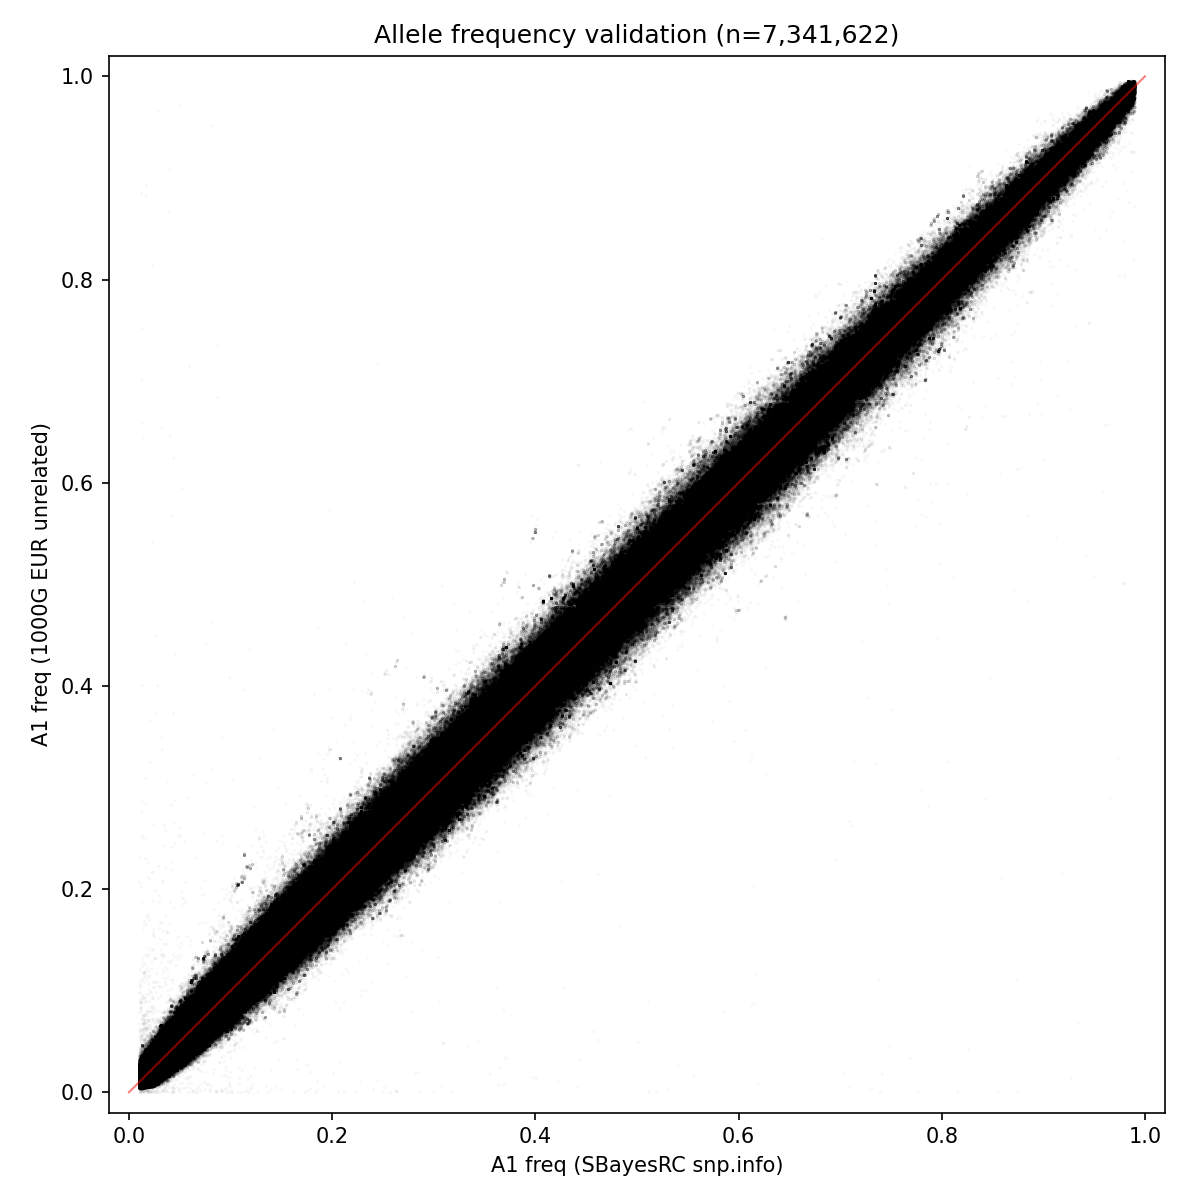
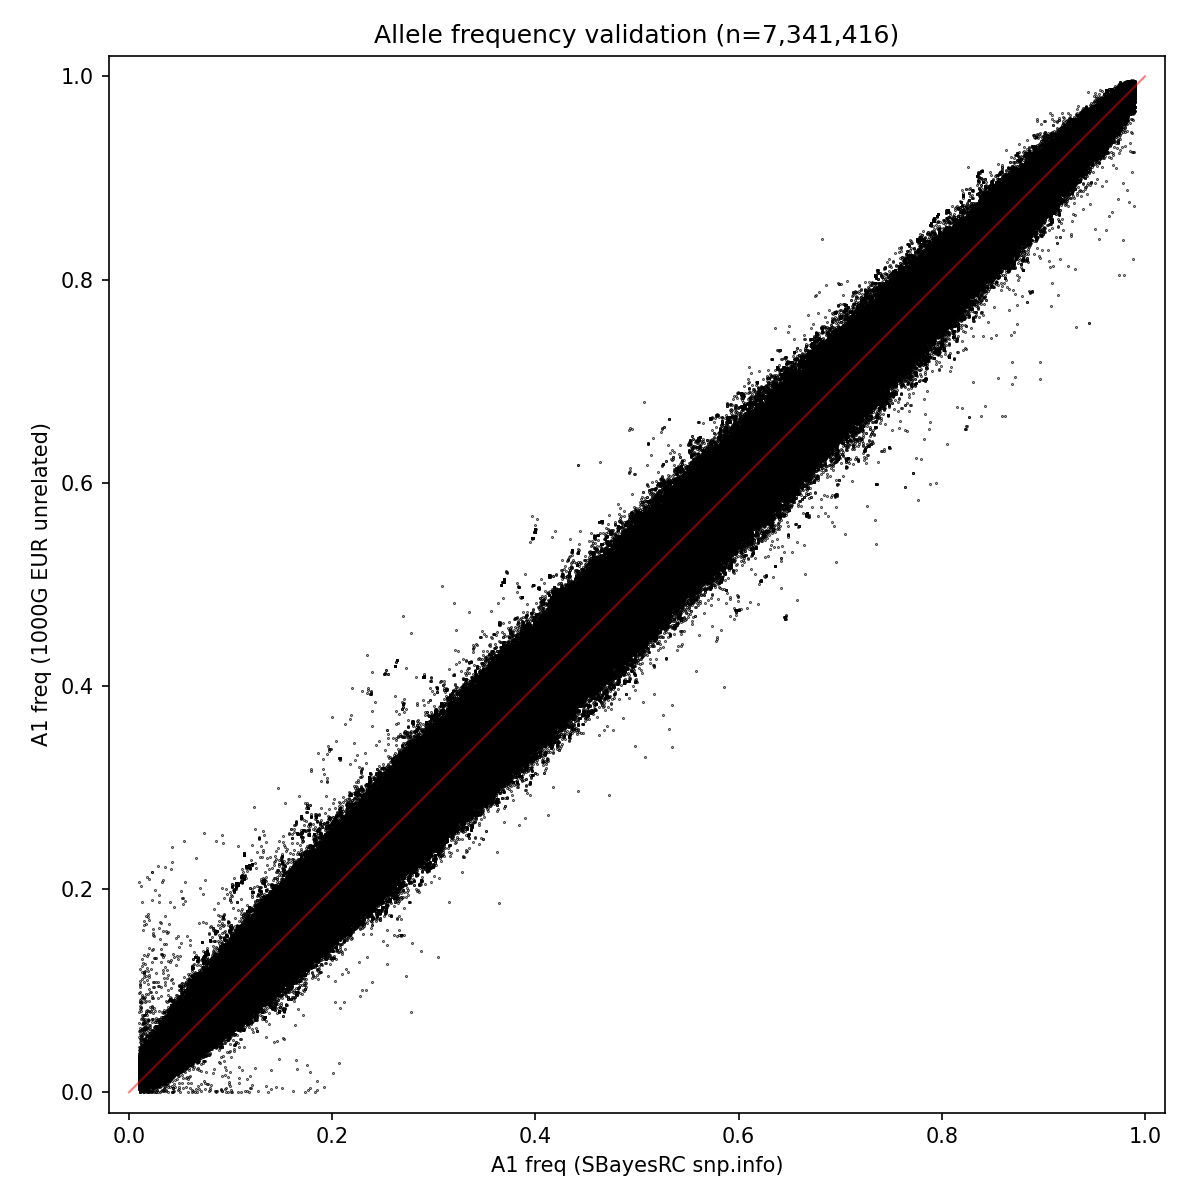
Add 1000G frequency QC filter, Bland-Altman plot, and README rewrite
- Exclude SNPs with |A1Freq - a1_freq_kg| > 0.2 (206 SNPs, status: kg_freq_diff)
- Final output: 7,354,747 SNPs (down from 7,354,953)
- Add Bland-Altman plot (kg_validation/bland_altman.png)
- Scatter plot: alpha=1, black dots, only freq-filter-passing SNPs
- README: explain GWAS motivation, why dbSNP confirmation matters,
  why 1000G for frequency check, strand flip count in final output

Changed region(s): [[0.0925, 0.0617, 0.9558, 0.925], [0.7092, 0.0, 0.74, 0.0308]]

diff --git a/liftover.py b/liftover.py
@@ -15,6 +15,7 @@ Inclusion criteria -- every SNP in sbayesrc_hg38.csv must satisfy ALL of:
   3. The dbSNP reference allele must match the hg38 FASTA reference base
   4. At least one allele (A1/A2, accounting for strand) must match the FASTA ref
   5. The other (non-ref) allele must appear in dbSNP's alt allele(s) for that rsID
+  6. If matched in 1000G EUR, |A1Freq - a1_freq_kg| must be <= 0.2
 
 Usage:
     bash main.sh
@@ -542,36 +543,35 @@ def step_kg_validation(df):
 
     print(f"  Allele-frequency assigned:    {in_kg.sum():>10,}")
 
-    # Flag large frequency differences (|A1Freq - a1_freq_kg| > 0.2)
+    # Exclude SNPs with |A1Freq - a1_freq_kg| > 0.2
     has_freq = df["a1_freq_kg"].notna()
     freq_diff = (df.loc[has_freq, "A1Freq"] - df.loc[has_freq, "a1_freq_kg"]).abs()
     large_diff = freq_diff > 0.2
     n_large = large_diff.sum()
-    print(f"  |freq diff| > 0.2:            {n_large:>10,}")
-
     if n_large > 0:
         bad_idx = freq_diff.index[large_diff]
-        print(f"\n  rsIDs with |A1Freq - a1_freq_kg| > 0.2:")
-        for _, r in df.loc[bad_idx, ["ID", "chrom", "pos_hg38", "A1Freq", "a1_freq_kg"]].head(50).iterrows():
-            print(f"    {r.ID}  chr{r.chrom}:{int(r.pos_hg38)}  "
+        df.loc[bad_idx, "status"] = "kg_freq_diff"
+        df.loc[bad_idx, "pos_hg38"] = -1
+    print(f"  |freq diff| > 0.2 (excluded): {n_large:>10,}")
+    print(f"  Passed freq filter:           {(has_freq.sum() - n_large):>10,}")
+
+    if n_large > 0:
+        print(f"\n  Sample excluded rsIDs (first 20):")
+        for _, r in df.loc[bad_idx, ["ID", "chrom", "A1Freq", "a1_freq_kg"]].head(20).iterrows():
+            print(f"    {r.ID}  chr{r.chrom}  "
                   f"A1Freq={r.A1Freq:.4f}  kg={r.a1_freq_kg:.4f}  "
                   f"diff={abs(r.A1Freq - r.a1_freq_kg):.4f}")
-        if n_large > 50:
-            print(f"    ... and {n_large - 50} more")
 
-    # Not-in-1000G list (log first 20)
-    if not_in_kg.any():
-        print(f"\n  Sample rsIDs not matched in 1000G (first 20):")
-        for _, r in df.loc[not_in_kg, ["ID", "chrom", "pos_hg38"]].head(20).iterrows():
-            print(f"    {r.ID}  chr{r.chrom}:{int(r.pos_hg38)}")
-
-    # Scatter plot (only SNPs with a valid a1_freq_kg; unmatched SNPs
-    # are excluded entirely, not plotted at frequency 0)
+    # Plots: only SNPs that passed the freq filter
+    passed_kg = has_freq & df["status"].isin(["confirmed", "rescue"])
     kg_dir = os.path.join(ROOT, "kg_validation")
     os.makedirs(kg_dir, exist_ok=True)
-    plot_path = os.path.join(kg_dir, "allele_freq_validation.png")
-    _make_freq_plot(df.loc[has_freq], plot_path)
-    print(f"\n  Scatter plot: kg_validation/{os.path.basename(plot_path)}")
+    scatter_path = os.path.join(kg_dir, "allele_freq_validation.png")
+    ba_path = os.path.join(kg_dir, "bland_altman.png")
+    _make_freq_plot(df.loc[passed_kg], scatter_path)
+    _make_bland_altman(df.loc[passed_kg], ba_path)
+    print(f"\n  Scatter plot:     kg_validation/allele_freq_validation.png")
+    print(f"  Bland-Altman plot: kg_validation/bland_altman.png")
 
     df.drop(columns=["_snp_alt", "kg_af"], inplace=True)
     return df
@@ -586,7 +586,7 @@ def _make_freq_plot(df, path):
     y = df["a1_freq_kg"].values
 
     fig, ax = plt.subplots(figsize=(8, 8))
-    ax.scatter(x, y, s=0.1, alpha=0.05, color="black", rasterized=True)
+    ax.scatter(x, y, s=0.1, alpha=1, color="black", rasterized=True)
     ax.plot([0, 1], [0, 1], "r-", linewidth=1, alpha=0.5)
     ax.set_xlabel("A1 freq (SBayesRC snp.info)")
     ax.set_ylabel("A1 freq (1000G EUR unrelated)")
@@ -596,6 +596,37 @@ def _make_freq_plot(df, path):
     ax.set_xticks([0, 0.2, 0.4, 0.6, 0.8, 1.0])
     ax.set_yticks([0, 0.2, 0.4, 0.6, 0.8, 1.0])
     ax.set_aspect("equal")
+    fig.tight_layout()
+    fig.savefig(path, dpi=150)
+    plt.close(fig)
+
+
+def _make_bland_altman(df, path):
+    import matplotlib
+    matplotlib.use("Agg")
+    import matplotlib.pyplot as plt
+    import numpy as np
+
+    x = df["A1Freq"].values
+    y = df["a1_freq_kg"].values
+    mean = (x + y) / 2
+    diff = x - y
+
+    md = np.mean(diff)
+    sd = np.std(diff)
+
+    fig, ax = plt.subplots(figsize=(10, 6))
+    ax.scatter(mean, diff, s=0.1, alpha=1, color="black", rasterized=True)
+    ax.axhline(md, color="blue", linewidth=1, label=f"Mean diff: {md:.4f}")
+    ax.axhline(md + 1.96 * sd, color="red", linewidth=1, linestyle="--",
+               label=f"+1.96 SD: {md + 1.96 * sd:.4f}")
+    ax.axhline(md - 1.96 * sd, color="red", linewidth=1, linestyle="--",
+               label=f"-1.96 SD: {md - 1.96 * sd:.4f}")
+    ax.set_xlabel("Mean A1 freq (snp.info, 1000G EUR)")
+    ax.set_ylabel("Difference (snp.info - 1000G EUR)")
+    ax.set_title(f"Bland-Altman: A1 freq agreement (n={len(df):,})")
+    ax.set_xlim(-0.02, 1.02)
+    ax.legend(loc="upper right")
     fig.tight_layout()
     fig.savefig(path, dpi=150)
     plt.close(fig)
@@ -670,6 +701,7 @@ def main():
     n_allele    = (df["status"] == "allele_mismatch").sum()
     n_alt       = (df["status"] == "alt_mismatch").sum()
     n_dup       = (df["status"] == "duplicate_pos").sum()
+    n_kg_freq   = (df["status"] == "kg_freq_diff").sum()
 
     print(f"\n{'=' * 60}")
     print(f"FINAL SUMMARY: {n_total:,} SNPs")
@@ -678,7 +710,7 @@ def main():
     print(f"    confirmed (liftOver + dbSNP agree):  {n_confirmed:>10,}")
     print(f"    rescue    (dbSNP only):              {n_rescue:>10,}")
     print(f"    TOTAL INCLUDED:                      {n_confirmed + n_rescue:>10,}")
-    n_excluded = n_conflict + n_no_dbsnp + n_unmapped + n_fasta + n_allele + n_alt + n_dup
+    n_excluded = n_conflict + n_no_dbsnp + n_unmapped + n_fasta + n_allele + n_alt + n_dup + n_kg_freq
     print(f"\n  Excluded:")
     print(f"    conflict  (liftOver != dbSNP):       {n_conflict:>10,}")
     print(f"    no_dbsnp  (rsID not in dbSNP):       {n_no_dbsnp:>10,}")
@@ -687,6 +719,7 @@ def main():
     print(f"    allele_mismatch (no allele = ref):   {n_allele:>10,}")
     print(f"    alt_mismatch (alt not in dbSNP):     {n_alt:>10,}")
     print(f"    duplicate_pos (same chrom+pos):      {n_dup:>10,}")
+    print(f"    kg_freq_diff  (|freq diff| > 0.2):   {n_kg_freq:>10,}")
     print(f"    TOTAL EXCLUDED:                      {n_excluded:>10,}")
     print(f"{'=' * 60}", flush=True)
 

diff --git a/README.md b/README.md
@@ -30,19 +30,37 @@ The ~8 GB of downloaded reference files are cached in `tools/` and reused on sub
 
 ## Why This Exists
 
+SBayesRC's `snp.info` file uses hg19 coordinates. To run GWAS with SBayesRC SNPs in hg38 genotype datasets, we need to lift them to hg38. Getting this wrong is silent and dangerous: if a SNP is mapped to the wrong hg38 position, downstream analyses will join it to the wrong variant in the genotype data, producing incorrect effect estimates with no error message.
+
+For every SNP in the final output, we need to be confident that:
+
+- **The rsID genuinely maps to that hg38 chrom + position.** We confirm this by requiring the rsID to exist in dbSNP (the canonical registry of known human variants on GRCh38). If an rsID isn't in dbSNP's current GRCh38 release, the variant may not exist on hg38, may have been merged or retired, or was never mapped to GRCh38 -- so we can't trust that it refers to a real variant at a real position.
+- **The position is correct.** We cross-validate UCSC liftOver's coordinate conversion against dbSNP's independently curated position. If they disagree, something is wrong (typically a segmental duplication region), and the SNP is discarded rather than guessing which source is right.
+- **The alleles are correct.** We verify the reference allele against the actual hg38 FASTA sequence, and check that the alternate allele is one that dbSNP recognises for that rsID. This catches cases where liftOver maps to a paralogous position that happens to share the same reference base but represents a different variant.
+- **The allele frequency is plausible.** We compare against 1000 Genomes EUR allele frequencies as a final sanity check. A large frequency discrepancy (>0.2) suggests a mapping or strand error. We use 1000 Genomes rather than dbSNP for this check because dbSNP's frequencies are aggregated across studies and populations; 1000G provides clean per-population frequencies from a well-defined reference panel, which is a better match for the European-ancestry frequencies in SBayesRC's snp.info.
+
+### The liftOver problem
+
 UCSC liftOver works well for the vast majority of SNPs, but it makes errors in **segmental duplication regions** (NBPF genes on chr1, HLA on chr6, etc.). In these regions, it can map a variant to a paralogous copy at the wrong genomic position. These errors are hard to catch: the allele may coincidentally match the reference at the wrong location, so a naive allele-vs-reference check won't flag it.
 
-This pipeline catches these errors by **cross-validating every SNP against dbSNP**. If UCSC liftOver and dbSNP disagree on where a SNP is, the SNP is discarded -- not overridden. Every included SNP must pass multiple independent checks.
+### What the pipeline does about it
 
-## Inclusion Criteria
+Every SNP is cross-validated against dbSNP. If UCSC liftOver and dbSNP disagree on where a SNP is, the SNP is discarded -- not overridden. The final output contains only SNPs that passed all checks. Of 7,356,518 input SNPs, 7,354,747 (99.98%) survive.
 
-A SNP is included in the final output (`sbayesrc_hg38.csv`) only if **all five** of these are true:
+### Strand flips
+
+Between hg19 and hg38, some genomic regions are represented on the opposite strand. UCSC liftOver detects these from the chain alignment. In the final output of 7,354,747 SNPs, only **12 have strand-flipped alleles** (9 confirmed, 3 rescue). Their A1_hg38/A2_hg38 alleles are complemented (A↔T, C↔G) relative to the original snp.info A1/A2.
+
+## What gets included
+
+Only SNPs with status `confirmed` or `rescue` make it into the final output (`sbayesrc_hg38.csv`). Everything else is excluded. A SNP must pass **all six** of these criteria:
 
 1. **Has a dbSNP entry** -- the rsID exists in dbSNP with an hg38 position on the same chromosome.
 2. **Position is confirmed** -- if UCSC liftOver produced a position, it must equal the dbSNP position. If liftOver failed, the dbSNP position alone is accepted ("rescue").
 3. **dbSNP ref matches the genome** -- the reference allele that dbSNP reports for this rsID must equal the actual base in the hg38 FASTA at that position.
 4. **One allele matches the reference** -- at least one of A1 or A2 (or their strand complement) must equal the hg38 FASTA reference base.
 5. **The other allele is in dbSNP's alts** -- the non-reference allele (on the same strand that matched the ref) must appear in dbSNP's ALT field for this rsID.
+6. **Allele frequency agreement** -- if the SNP is found in 1000 Genomes EUR, |A1Freq - a1_freq_kg| must be <= 0.2. SNPs not found in 1000G are not penalised.
 
 Any failure on any criterion means the SNP is excluded.
 
@@ -97,17 +115,15 @@ For all SNPs that passed steps 1-3:
 
 After annotation, the pipeline checks whether any two passed SNPs share the same hg38 chrom + position. If so, both are excluded as `duplicate_pos` -- the mapping is ambiguous.
 
-### Step 5: 1000G EUR allele frequency validation
+### Step 5: 1000G EUR allele frequency QC
 
-Compares allele frequencies against 1000 Genomes European unrelated samples as a **sanity check**. This step is informational only -- it does not exclude any SNPs.
+Compares allele frequencies against 1000 Genomes European unrelated samples. **SNPs with |A1Freq - a1_freq_kg| > 0.2 are excluded** as `kg_freq_diff`. SNPs not found in 1000G are kept (they are not penalised).
 
 The 1000G pvar file contains pre-computed `AF_EUR_unrel` values, so no genotype processing or sample filtering is needed.
 
 **How allele matching works:** Both our output and 1000G are on the hg38 forward strand, so we match by exact identity -- no strand complement logic. The merge uses all five columns (rsID + chrom + pos + ref + alt). This correctly handles multi-allelic sites in 1000G, where the same rsID has multiple rows with different alt alleles: only the row with our specific alt allele matches.
 
 **What `a1_freq_kg` means:** `AF_EUR_unrel` in the pvar is the frequency of the ALT allele. If A1 is the alt → `a1_freq_kg = AF_EUR_unrel`. If A1 is the ref → `a1_freq_kg = 1 - AF_EUR_unrel`.
-
-The pipeline flags SNPs with |A1Freq - a1_freq_kg| > 0.2 and generates a scatter plot.
 
 ## Results
 
@@ -117,7 +133,7 @@ The pipeline flags SNPs with |A1Freq - a1_freq_kg| > 0.2 and generates a scatter
 
 | Status | Count | In final output? |
 |--------|------:|:-----------------:|
-| `confirmed` | 7,352,740 | Yes |
+| `confirmed` | 7,352,534 | Yes |
 | `rescue` | 2,213 | Yes |
 | `conflict` | 25 | No |
 | `no_dbsnp` | 1,538 | No |
@@ -126,8 +142,9 @@ The pipeline flags SNPs with |A1Freq - a1_freq_kg| > 0.2 and generates a scatter
 | `allele_mismatch` | 0 | No |
 | `alt_mismatch` | 0 | No |
 | `duplicate_pos` | 0 | No |
+| `kg_freq_diff` | 206 | No |
 | **Total input** | **7,356,518** | |
-| **Total in sbayesrc_hg38.csv** | **7,354,953** | |
+| **Total in sbayesrc_hg38.csv** | **7,354,747** | |
 
 ### Notes on excluded SNPs
 
@@ -136,23 +153,25 @@ The pipeline flags SNPs with |A1Freq - a1_freq_kg| > 0.2 and generates a scatter
 - **2 unmapped** -- rs117553620 (chr17) and rs140636911 (chr19). Neither liftOver nor dbSNP resolves them.
 - **0 fasta/allele/alt mismatches** -- every included SNP's alleles are consistent with the hg38 FASTA and dbSNP.
 - **0 duplicate positions** -- no two passed SNPs share the same hg38 chrom + pos.
+- **206 kg_freq_diff** -- allele frequency in snp.info differs from 1000G EUR by more than 0.2. Likely mapping errors or population stratification artefacts.
 
-### Strand flips
+### 1000G allele frequency QC
 
-12 SNPs had their alleles complemented: 9 detected from the liftOver chain alignment, 3 rescue SNPs complemented to match the FASTA reference strand.
+Of the 7,354,953 SNPs that passed steps 1-4:
 
-### 1000G allele frequency validation
+- **7,341,622** (99.8%) matched a 1000G entry on rsID + chrom + pos + ref + alt
+- **13,206** had an rsID not present in 1000G at all
+- **125** had the rsID in 1000G but with a different alt allele (multi-allelic site where 1000G only has a different variant)
+- **206** matched SNPs had |A1Freq - a1_freq_kg| > 0.2 and were **excluded**
+- **7,341,416** matched SNPs passed the frequency filter
+
+Of the **7,354,747** SNPs in the final output, **7,341,416** (99.8%) have a 1000G EUR allele frequency. The remaining 13,331 are not in 1000G.
 
 ![Allele frequency validation](kg_validation/allele_freq_validation.png)
 
-Of the 7,354,953 included SNPs:
+![Bland-Altman plot](kg_validation/bland_altman.png)
 
-- **7,341,622** matched a 1000G entry on rsID + chrom + pos + ref + alt
-- **13,206** had an rsID not present in 1000G at all
-- **125** had the rsID in 1000G but with a different alt allele (multi-allelic site where 1000G only has a different variant)
-- **206** matched SNPs had |A1Freq - a1_freq_kg| > 0.2
-
-SNPs not matched in 1000G are not plotted in the scatter plot (they are not given a frequency of 0).
+Both plots show only the 7,341,416 SNPs that passed the frequency filter. SNPs not found in 1000G are not plotted.
 
 ## Logging
 
@@ -210,13 +229,13 @@ One row per input SNP (7,356,518 rows), including excluded SNPs:
 | fasta_ref | Actual hg38 FASTA base at pos_hg38 (empty if excluded before this check) |
 | ref_match | Which allele matches the hg38 ref: `A1_hg38` or `A2_hg38` (empty if excluded) |
 | strand_flip | Whether alleles were complemented (`True`/`False`) |
-| status | One of: `confirmed`, `rescue`, `conflict`, `no_dbsnp`, `unmapped`, `fasta_mismatch`, `allele_mismatch`, `alt_mismatch`, `duplicate_pos` |
+| status | One of: `confirmed`, `rescue`, `conflict`, `no_dbsnp`, `unmapped`, `fasta_mismatch`, `allele_mismatch`, `alt_mismatch`, `duplicate_pos`, `kg_freq_diff` |
 | a1_freq_kg | Frequency of A1 in 1000G EUR unrelated (`NaN` if not matched in 1000G) |
 | Index, GenPos, A1Freq, N, Block | Preserved from snp.info |
 
-### `kg_validation/allele_freq_validation.png`
+### `kg_validation/allele_freq_validation.png` and `bland_altman.png`
 
-Scatter plot of SBayesRC A1 frequency vs 1000G EUR A1 frequency. Only SNPs with a valid `a1_freq_kg` are plotted.
+Scatter plot and Bland-Altman plot of SBayesRC A1 frequency vs 1000G EUR A1 frequency. Only SNPs that passed the frequency filter are plotted.
 
 ## Runtime and Storage
 
@@ -272,7 +291,8 @@ First-run download time depends on network speed. The dbSNP VCF (~28 GB), hg38 F
 ├── README.md
 ├── logs/                       Timestamped run logs (gitignored)
 ├── kg_validation/              1000G validation output (git-tracked)
-│   └── allele_freq_validation.png
+│   ├── allele_freq_validation.png
+│   └── bland_altman.png
 ├── tools/                      Downloaded reference files (gitignored)
 │   ├── bin/liftOver
 │   ├── venv/
@@ -294,7 +314,7 @@ First-run download time depends on network speed. The dbSNP VCF (~28 GB), hg38 F
 - **~1,540 SNPs have no dbSNP entry** (0.02% of 7.36M). These are excluded because they cannot be independently confirmed.
 - **Strand-ambiguous SNPs (A/T, C/G):** Strand flips are detected from the chain alignment, not from the alleles themselves. For A/T and C/G SNPs, complementing swaps the labels but not the nucleotide identity. This is correct but may look surprising in the output.
 - **dbSNP version:** The pipeline streams from NCBI's `latest_release` URL, so the dbSNP version changes when NCBI publishes updates. The cached `dbsnp_lookup.tsv` is not automatically refreshed -- delete it to re-stream.
-- **1000G validation is informational only** -- it does not exclude SNPs. Large frequency differences (>0.2) may reflect population-specific effects, multi-allelic sites, or rare variants.
+- **1000G frequency filter** -- SNPs with |A1Freq - a1_freq_kg| > 0.2 are excluded. SNPs not found in 1000G at all are kept. The 0.2 threshold is conservative; large differences typically indicate mapping or strand errors rather than genuine population effects.
 
 ## Data Sources
 
